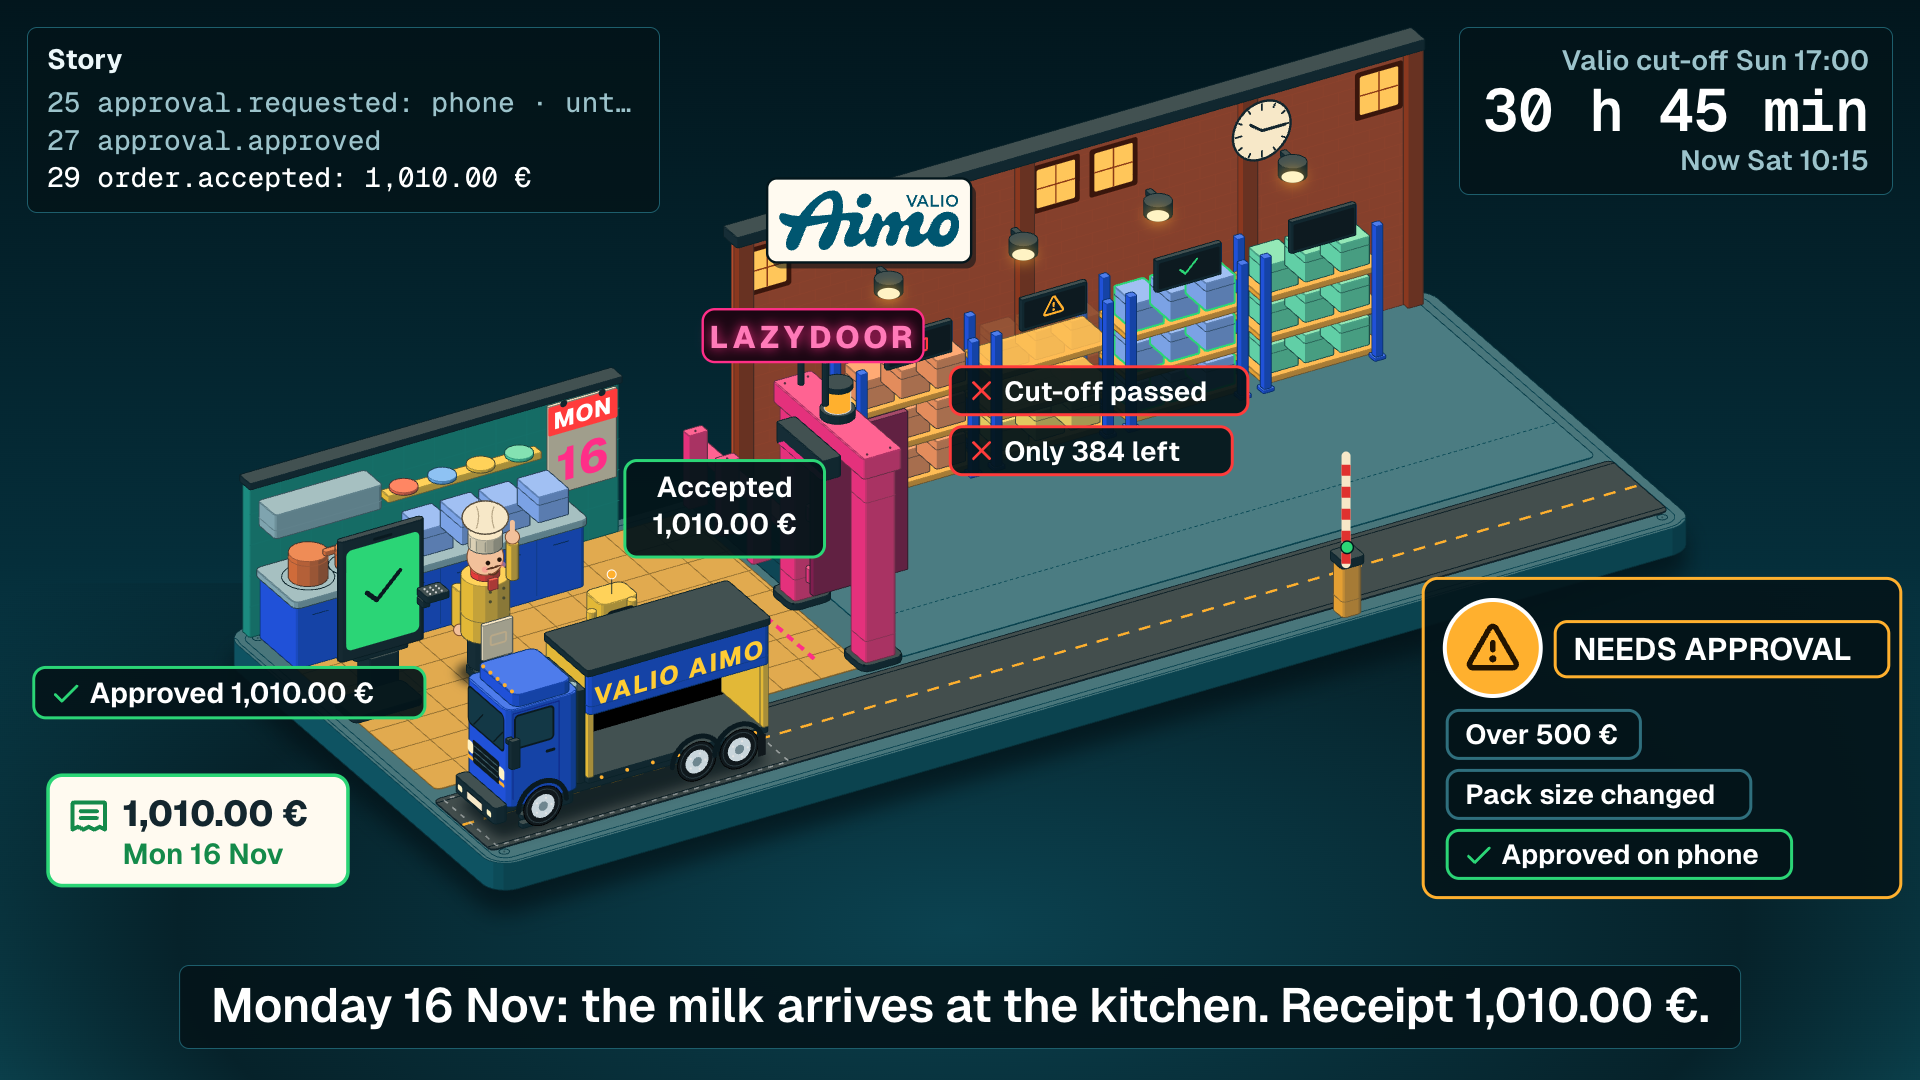
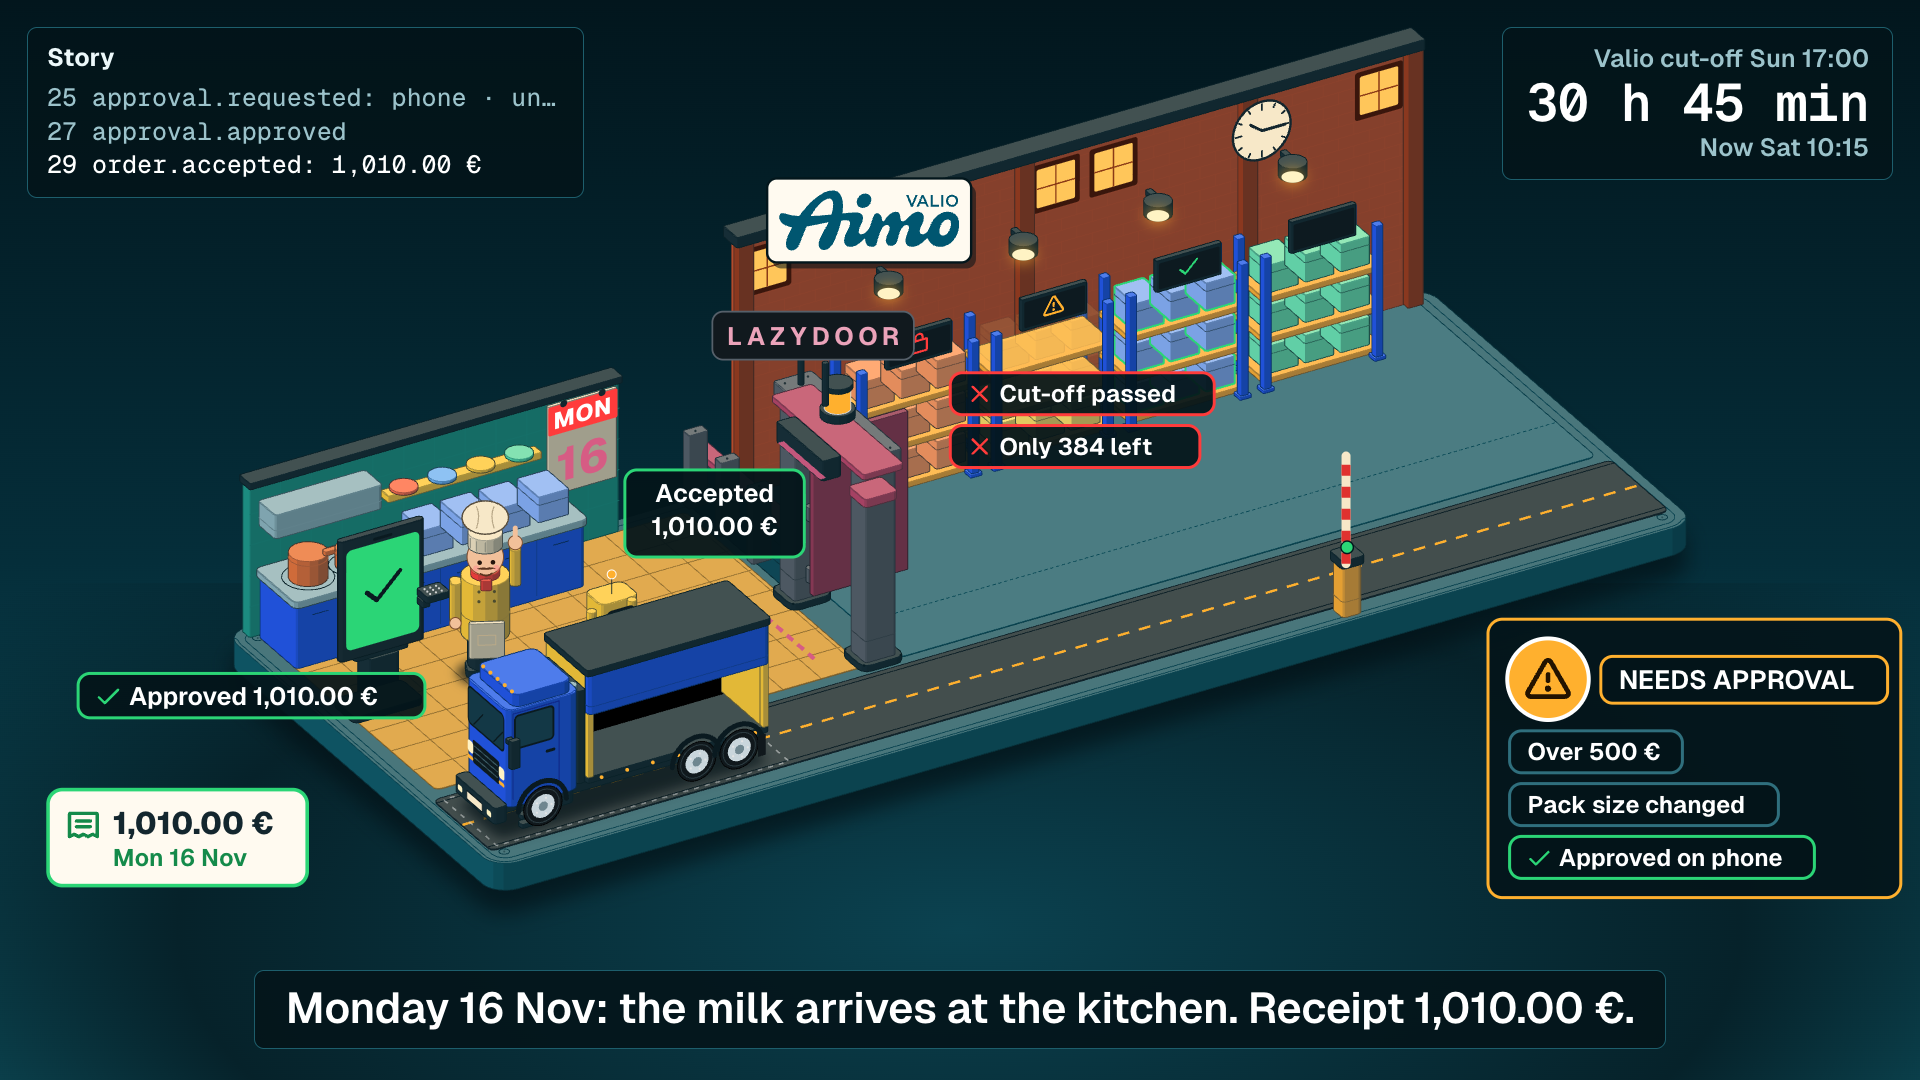
fix(demo): level chef, plain truck, dock boom opens once per run, agents post a letter, restrained Lazydoor accent, text one step smaller

diff --git a/demo/demo.css b/demo/demo.css
@@ -1,9 +1,11 @@
-/* Art direction "Petrol night, signal colours": Valio Aimo petrol for the night and the chrome, Lazydoor magenta as the one
-   brand accent, warm amber as the only light. Kit tokens come from kit/iso.css; materials redefine them per group from one --c. */
+/* Art direction "Petrol night, signal colours": Valio Aimo petrol for the night and the chrome, a graphite gate with one
+   restrained deep-rose accent for Lazydoor, warm amber as the only light. Kit tokens come from kit/iso.css; materials redefine them per group from one --c. */
 @font-face { font-family: "Geist"; src: url("assets/fonts/Geist-Variable.woff2") format("woff2"); font-weight: 100 900; font-display: swap; }
 @font-face { font-family: "Geist Mono"; src: url("assets/fonts/GeistMono-Variable.woff2") format("woff2"); font-weight: 100 900; font-display: swap; }
 .iso {
-  --brand: #ff2e88;
+  --brand: #d65c84;
+  --brand-strong: #b8456b;
+  --brand-soft: #eba3ba;
   --petrol-950: #031419;
   --petrol-900: #06222a;
   --petrol-700: #0d4654;
@@ -33,7 +35,7 @@ body { background: radial-gradient(ellipse at 50% -10%, #0d4654 0%, #031419 62%)
 .logo-chip img { height: 20px; width: auto; display: block; }
 .modes { display: inline-flex; border: 1px solid #1d5e6c; border-radius: var(--radius); overflow: hidden; }
 .modes button, .controls button { font: 600 14px var(--sans); color: var(--ink); background: var(--petrol-900); border: 0; padding: 8px 16px; cursor: pointer; }
-.modes button[aria-pressed="true"] { background: var(--brand); color: #fff; }
+.modes button[aria-pressed="true"] { background: var(--brand-strong); color: #fff; }
 .controls button { border: 1px solid #1d5e6c; border-radius: var(--radius); }
 .controls button:active, .modes button:active { transform: translateY(1px); }
 .bar .right { margin-left: auto; display: flex; align-items: center; gap: 10px; }
@@ -48,23 +50,23 @@ body { background: radial-gradient(ellipse at 50% -10%, #0d4654 0%, #031419 62%)
 #scene > svg, #scene > canvas { position: absolute; inset: 0; width: 100%; height: 100%; }
 #scene > canvas { pointer-events: none; }
 .ground { position: absolute; left: -10%; right: -10%; bottom: -34%; height: 80%; pointer-events: none; background: radial-gradient(ellipse at 50% 40%, #0b4250 0%, #06222a 48%, transparent 74%); }
-.hud-events { position: absolute; top: 1.4cqw; left: 1.4cqw; width: 33cqw; padding: .8cqw 1cqw; border-radius: var(--radius); background: rgb(3 20 25 / .82); border: 1px solid #1d5e6c; }
-.hud-head { display: flex; gap: .8cqw; align-items: center; font: 700 1.45cqw/1.2 var(--sans); color: var(--ink); }
-.badge { font: 700 1.45cqw/1 var(--sans); color: #231300; background: var(--hold); padding: .25cqw .6cqw; border-radius: 6px; }
-.ticker { margin: .4cqw 0 0; padding: 0; list-style: none; font: 500 1.45cqw/1.35 var(--anatomy-mono); color: var(--ink-dim); }
+.hud-events { position: absolute; top: 1.4cqw; left: 1.4cqw; width: 29cqw; padding: .8cqw 1cqw; border-radius: var(--radius); background: rgb(3 20 25 / .82); border: 1px solid #1d5e6c; }
+.hud-head { display: flex; gap: .8cqw; align-items: center; font: 700 1.3cqw/1.2 var(--sans); color: var(--ink); }
+.badge { font: 700 1.3cqw/1 var(--sans); color: #231300; background: var(--hold); padding: .25cqw .6cqw; border-radius: 6px; }
+.ticker { margin: .4cqw 0 0; padding: 0; list-style: none; font: 500 1.3cqw/1.35 var(--anatomy-mono); color: var(--ink-dim); }
 .ticker:empty { display: none; }
 .ticker li { white-space: nowrap; overflow: hidden; text-overflow: ellipsis; }
 .ticker li:last-child { color: #fff; }
 .hud-clock { position: absolute; top: 1.4cqw; right: 1.4cqw; padding: .8cqw 1.2cqw; border-radius: var(--radius); background: rgb(3 20 25 / .82); border: 1px solid #1d5e6c; text-align: right; }
-.hud-small { font: 600 1.45cqw/1.25 var(--sans); color: var(--ink-dim); }
-.hud-big { font: 700 3.1cqw/1.1 var(--anatomy-mono); color: #fff; letter-spacing: -.01em; }
+.hud-small { font: 600 1.3cqw/1.25 var(--sans); color: var(--ink-dim); }
+.hud-big { font: 700 2.75cqw/1.1 var(--anatomy-mono); color: #fff; letter-spacing: -.01em; }
 .hud-big[data-closed] { color: var(--reject); }
-.caption { position: absolute; left: 50%; bottom: 1.6cqw; transform: translateX(-50%); width: max-content; max-width: 90cqw; text-align: center; font: 600 2.5cqw/1.2 var(--sans); color: #fff; background: rgb(3 20 25 / .9); border: 1px solid #1d5e6c; padding: .6cqw 1.6cqw .7cqw; border-radius: var(--radius); text-wrap: balance; letter-spacing: -.01em; }
+.caption { position: absolute; left: 50%; bottom: 1.6cqw; transform: translateX(-50%); width: max-content; max-width: 90cqw; text-align: center; font: 600 2.25cqw/1.2 var(--sans); color: #fff; background: rgb(3 20 25 / .9); border: 1px solid #1d5e6c; padding: .6cqw 1.6cqw .7cqw; border-radius: var(--radius); text-wrap: balance; letter-spacing: -.01em; }
 .caption:empty { display: none; }
 .endcard { position: absolute; inset: 0; display: grid; place-content: center; gap: 2.2cqw; text-align: center; background: radial-gradient(circle at 50% 45%, rgb(13 70 84 / .96), rgb(3 20 25 / .98)); color: #fff; animation: fade .8s both; }
 .endcard[hidden] { display: none; }
 .endcard .brands { display: flex; align-items: center; justify-content: center; gap: 1.6cqw; }
-.endcard .brands .lazy { font: 800 4.4cqw/1 var(--sans); color: var(--brand); letter-spacing: -.03em; }
+.endcard .brands .lazy { font: 800 4cqw/1 var(--sans); color: var(--brand); letter-spacing: -.03em; }
 .endcard .brands .x { font: 600 2cqw var(--sans); color: var(--ink-dim); }
 .endcard .brands .logo-plate { background: #fffaf0; border-radius: var(--radius); padding: 1cqw 1.6cqw; }
 .endcard .brands img { height: 4.6cqw; width: auto; display: block; }
@@ -73,7 +75,7 @@ body { background: radial-gradient(ellipse at 50% -10%, #0d4654 0%, #031419 62%)
 .endcard .plug svg { width: 7cqw; height: auto; }
 .endcard .plug svg path { fill: var(--brand); stroke: #fff; stroke-width: 1.4; stroke-linejoin: round; }
 .endcard .plug svg path.prong { fill: #fff; }
-.endcard .line { max-width: 74cqw; margin: 0 auto; font: 700 3.2cqw/1.2 var(--sans); letter-spacing: -.015em; text-wrap: balance; }
+.endcard .line { max-width: 74cqw; margin: 0 auto; font: 700 2.9cqw/1.2 var(--sans); letter-spacing: -.015em; text-wrap: balance; }
 .endcard .sub { font: 500 1.6cqw var(--sans); color: var(--ink-dim); }
 @keyframes fade { from { opacity: 0; } }
 
@@ -134,8 +136,9 @@ body.kiosk .stage { width: min(100vw, 177.78vh); margin: 0 auto; border-radius: 
 .m-cobalt { --c: #2557f0; }
 .m-amber { --c: #ffb02e; }
 .m-cream { --c: #f7e8c8; }
-.m-magenta { --c: #ff2e88; }
-.m-plum { --c: #8d1b55; }
+.m-gate { --c: #56606a; }
+.m-rose { --c: #b8456b; }
+.m-garnet { --c: #93395a; }
 .m-petrol { --c: #0f4c5c; }
 .m-phone { --c: #1b2f38; }
 .m-crate0 { --c: #ff9a62; }
@@ -195,19 +198,25 @@ body.kiosk .stage { width: min(100vw, 177.78vh); margin: 0 auto; border-radius: 
 .beacon[data-stamp="NEEDS_APPROVAL"] .beacon-lamp :is(.iso-fill, .iso-shade, .iso-top) { fill: var(--hold); }
 .beacon[data-stamp="REJECT"] .beacon-lamp :is(.iso-fill, .iso-shade, .iso-top) { fill: var(--reject); }
 .beacon[data-stamp="SCAN"] .beacon-lamp :is(.iso-fill, .iso-shade, .iso-top) { fill: var(--brand); }
-.leaf-panel { fill: none; stroke: #ff6fb0; stroke-width: 1.4px; }
+.leaf-panel { fill: none; stroke: var(--brand-soft); stroke-width: 1.2px; opacity: .7; }
 .leaf-window { fill: #0d1a20; }
-.leaf-kick { fill: #3a0a22; }
-.leaf-seal { fill: #f7e8c8; stroke: #3a0a22; stroke-width: 1px; }
+.leaf-kick { fill: #2a1820; }
+.leaf-slot-frame { fill: #c9a24a; }
+.leaf-slot { fill: #0a0f12; }
+.letter-body { fill: #fffaf0; stroke: #3a2a1a; stroke-width: 1.2px; }
+.letter-flap { fill: none; stroke: #3a2a1a; stroke-width: 1.2px; stroke-linejoin: round; }
+.letter-seal { fill: var(--brand); }
+.naive-letter .letter-seal { fill: #8796a0; }
+.leaf-seal { fill: #f7e8c8; stroke: #2a1820; stroke-width: 1px; }
 .leaf-seal[data-stamp="AUTO"] { fill: var(--auto); }
 .leaf-seal[data-stamp="NEEDS_APPROVAL"] { fill: var(--hold); }
 .leaf-seal[data-stamp="REJECT"] { fill: var(--reject); }
-.neon-back { fill: #1a0612; stroke: var(--brand); stroke-width: 2px; }
-.neon-text { fill: #ff7ab8; font: 800 26px var(--sans); letter-spacing: .12em; filter: drop-shadow(0 0 5px #ff2e88); }
+.neon-back { fill: #11191e; stroke: #56606a; stroke-width: 1.5px; }
+.neon-text { fill: var(--brand-soft); font: 700 21px var(--sans); letter-spacing: .18em; }
 .scan-fan { fill: var(--brand); opacity: .18; }
-.scan-line { fill: none; stroke: #ff7ab8; stroke-width: 3; stroke-linecap: round; }
-[data-id="asks"] .iso-line { stroke: #ff7ab8; stroke-width: 2; }
-[data-id="asks"] .iso-wire-end { stroke: #ff7ab8; fill: #1a0612; }
+.scan-line { fill: none; stroke: var(--brand-soft); stroke-width: 3; stroke-linecap: round; }
+[data-id="asks"] .iso-line { stroke: var(--brand-soft); stroke-width: 2; }
+[data-id="asks"] .iso-wire-end { stroke: var(--brand-soft); fill: #11191e; }
 .scene-front .iso-line[data-flow] { animation: none; stroke-dasharray: 4 8; }
 .boom { fill: none; stroke: #f7e8c8; stroke-width: 9px; stroke-linecap: round; }
 .boom-stripes { fill: none; stroke: #e0322f; stroke-width: 9px; stroke-dasharray: 11 11; }
@@ -246,7 +255,6 @@ body.kiosk .stage { width: min(100vw, 177.78vh); margin: 0 auto; border-radius: 
 .door-line { fill: none; stroke: #0f2a8a; stroke-width: 1.2px; }
 .handle { fill: #0a1a20; }
 .livery-band { fill: #2557f0; }
-.livery-text { fill: #ffcc33; font-family: var(--sans); font-weight: 800; letter-spacing: .08em; }
 .markers .iso-dots circle, .roof-lights .iso-dots circle { fill: var(--hold); opacity: 1; }
 .arch { fill: none; stroke: #0a1a20; stroke-width: 5px; stroke-linecap: round; }
 .tyre { fill: #10181c; stroke: #000; stroke-width: .8px; }
@@ -257,7 +265,6 @@ body.kiosk .stage { width: min(100vw, 177.78vh); margin: 0 auto; border-radius: 
 [data-id="truck"][data-naive] .m-sun { --c: #8796a0; }
 [data-id="truck"][data-naive] .m-cobalt { --c: #5f6f78; }
 [data-id="truck"][data-naive] .livery-band { fill: #4a5a62; }
-[data-id="truck"][data-naive] .livery-text { fill: #c9d3d8; }
 .puff { fill: #c9d3d8; stroke: #8fa3ab; stroke-width: .8; }
 .puff[data-dark] { fill: #3a464c; stroke: #222c30; }
 .trail-line { fill: none; stroke: #fff3c4; stroke-width: 3.5px; stroke-linecap: round; }
@@ -306,8 +313,8 @@ body.kiosk .stage { width: min(100vw, 177.78vh); margin: 0 auto; border-radius: 
 [data-id="stampfx"][data-stamp="NEEDS_APPROVAL"] .stamp-icon { color: #231300; }
 .receipt-box { fill: #fffaf0; stroke: var(--auto); stroke-width: 3px; }
 .receipt-icon { color: #148a4a; }
-.receipt-amount { fill: #13262e; font: 800 30px var(--sans); }
-.receipt-day { fill: #148a4a; font: 650 24px var(--sans); }
+.receipt-amount { fill: #13262e; font: 800 26px var(--sans); }
+.receipt-day { fill: #148a4a; font: 650 20px var(--sans); }
 .label-box { fill: rgb(3 20 25 / .94); stroke: #ff6a4d; stroke-width: 2.5px; }
 .label[data-carry="rejected"] .label-box { stroke: var(--reject); }
 .label[data-carry="receipt"] .label-box { stroke: var(--auto); }
@@ -319,5 +326,4 @@ body.kiosk .stage { width: min(100vw, 177.78vh); margin: 0 auto; border-radius: 
 .stop-line { fill: none; stroke: var(--brand); stroke-width: 4px; stroke-dasharray: 8 6; }
 [data-id="phone"][data-typing] .phone-screen { fill: #5ff4ff; }
 
-@media (prefers-reduced-motion: reduce) { .neon-text { filter: none; } }
 @media (max-width: 640px) { .stage { aspect-ratio: 4 / 3.6; } .hud-events { display: none; } .caption { font-size: 15px; bottom: 2cqw; } .brand .for { display: none; } }

diff --git a/demo/STATUS.md b/demo/STATUS.md
@@ -6,13 +6,15 @@ Nhánh `demo-animation`, thư mục `demo/`. Mới nhất ở dưới.
 
 Mở http://localhost:8790/ (dev server đang chạy, phục vụ thẳng thư mục `demo/`), bấm Play hoặc kéo thanh thời gian. Chưa quay video mới: `demo/story.mp4` vẫn là bản cũ, sẽ quay lại sau khi Kane duyệt.
 
-Cần xem (bản sửa: màn hình bếp bị chef che, thẻ quyết định đè nhãn bến):
-1. 0:01 đến 0:06: chef đứng bên phải màn hình bếp và gõ trên bàn phím gắn bên hông; màn hình lộ hoàn toàn, chữ gõ hiện ở ô phía trên bên trái ([ảnh](shots/after-chef-terminal.png)).
-2. 0:53 đến 1:00: màn hình vàng có chuông, chef chạm duyệt; nhãn màn hình nằm dưới màn hình, cạnh chân đế.
-3. 1:00 đến 1:13: thẻ quyết định ở góc dưới phải, hoá đơn ở góc dưới trái cạnh chỗ xe dỡ hàng ([ảnh](shots/after-delivery.png)).
-4. Live, phát file mẫu tới `approval.expired`: thẻ REJECT ở góc dưới phải, "Approval expired" dưới thanh chắn bến, không chữ nào đè nhau ([ảnh](shots/after-live-expired.png)).
+Cần xem (6 sửa theo nhận xét của Kane về 77db1ef; tổng quan: [ảnh](shots/after-overview.png)):
+1. Chef: quay mặt thẳng về người xem, hai vai ngang nhau, hai tay gắn đối xứng vào thân ở mọi tư thế (đứng, gõ phím, nhún vai, giơ ngón cái) ([ảnh](shots/after-chef-poses.png)).
+2. Xe tải: bỏ hẳn chữ VALIO AIMO trên xe ([giao hàng](shots/after-delivery.png)).
+3. Thanh chắn bến: mỗi chuyến xe chỉ mở một lần (mở trước khi xe chạy, đóng khi xe đã về đỗ), không mở khi hàng bị từ chối hay hết hạn. Trong Story: mở 62,7 s, đóng 73,7 s; mở 80,9 s, đóng 92,0 s.
+4. Agent: 0:36 đến 0:38 đi tới trước cổng, thả phong thư vào khe thư trên cánh cổng, đứng chờ ngoài cổng tay không; báo giá đi ra từ khe về tay agent ([ảnh](shots/after-letter.png)). Agent ngây thơ (0:12): cũng đi tới trước cổng, nhưng phong thư bay vòng qua cổng theo đường nét đứt xám tới kệ (đây là ý "bỏ qua cổng" của cảnh này) ([ảnh](shots/after-naive-letter.png)).
+5. Màu Lazydoor: bỏ hồng neon. Cổng màu graphite, cánh cổng màu đỏ garnet trầm, viền hồng đậm (#b8456b) ở nắp hàng rào, cổ trụ và dầm; biển LAZYDOOR chữ hồng nhạt khắc trên tấm graphite, không phát sáng. Giao diện dùng cùng tông: chữ "Lazydoor", nút đang chọn, vạch dừng, tia quét ([cổng](shots/after-gate.png)).
+6. Chữ nhỏ hơn một bậc: phụ đề 2,25% chiều rộng (43 px ở 1080p), nhãn và thẻ 20 đến 22 đơn vị (24 đến 26 px), khung sự kiện và đồng hồ 1,3%, số đếm ngược 2,75%; thẻ quyết định và hoá đơn thu nhỏ theo.
 
-Kiểm tra chồng chữ tự động ở 1080p: `node demo/dev/label-overlap.mjs` (Story mỗi 0,25 giây, Live phát hết file mẫu) báo `label overlaps: 0`.
+Kiểm tra: `node demo/dev/label-overlap.mjs` báo `label overlaps: 0` (Story mỗi 0,25 giây, Live phát hết file mẫu); 31 test pass.
 
 ## Nhật ký
 
@@ -123,6 +125,14 @@ Vấn đề tìm thấy:
   - Nhãn "999999?" của agent ngây thơ nằm bên phải biển LAZYDOOR.
   - Thẻ kết thúc phủ toàn khung nên không tính chồng.
 - Test 28 pass; 120 khung/giây ở 1080p.
+
+### 14. Sửa theo nhận xét của Kane về 77db1ef (chef, xe, thanh chắn, phong thư, màu, cỡ chữ)
+- Chef: dựng lại trong hệ trục quay mặt về người xem (vai theo hướng nằm ngang trên màn hình), nên hai vai ngang và hai tay đối xứng; tay gõ phím là một thanh nối từ vai tới bàn phím bên hông màn hình.
+- Xe tải: bỏ chữ trên rèm.
+- Thanh chắn: nguyên nhân mở hai lần là điều kiện "xe ở gần thanh chắn" cũng đúng khi xe đang đỗ ở bến (chỗ đỗ nằm sát thanh chắn). Vì vậy thanh chắn mở lúc chất hàng, hạ khi xe chạy qua, mở lại khi xe quay về, rồi đứng mở tới sự kiện sau. Thay bằng `boomOpen(tr, age)` (thuần, có test): mở từ 0,5 giây trước khi xe chạy tới khi xe đã đỗ lại ở bến. Test: mở đúng một lần mỗi chuyến, xe không bao giờ chạy qua khi thanh chắn hạ, xe ngây thơ/kẹt/đỗ không làm nó mở.
+- Phong thư: khe thư (viền vàng) trên cánh cổng; agent tới trước cổng thì thẻ trên tay bay thành phong thư vào khe, agent đứng chờ tay không; báo giá đi ra khỏi khe về tay agent (chờ ít nhất 1,2 giây sau khi thả thư). Agent ngây thơ: phong thư bay theo đường cong xám vòng qua cổng tới kệ.
+- Màu: theo design-taste-frontend, một màu nhấn duy nhất, độ bão hoà thấp hơn 80%, không phát sáng neon: hồng đậm `--brand #d65c84` (chữ trên nền tối, tương phản 5,0:1), `--brand-strong #b8456b` (nền nút có chữ trắng, 5,1:1), `--brand-soft #eba3ba` (đường mảnh, chữ biển). Không dùng xanh lá, vàng hay đỏ vì đó là màu tín hiệu AUTO / chờ duyệt / REJECT, không dùng xanh dương vì trùng Valio Aimo.
+- Cỡ chữ: giữa bản trước khi phóng to (nhãn 14 đến 19, phụ đề 2,15%) và bản 77db1ef (nhãn 23 đến 26, phụ đề 2,5%).
 
 ## Còn lại / cần làm sau
 - Test Live với `wrangler dev` khi `main` có route `/v1/events`, `/v1/events/stream`, `/v1/interpret`; khi đó kiểm tra tên trường trong `sendRequest` (`demo/live.mjs`).
